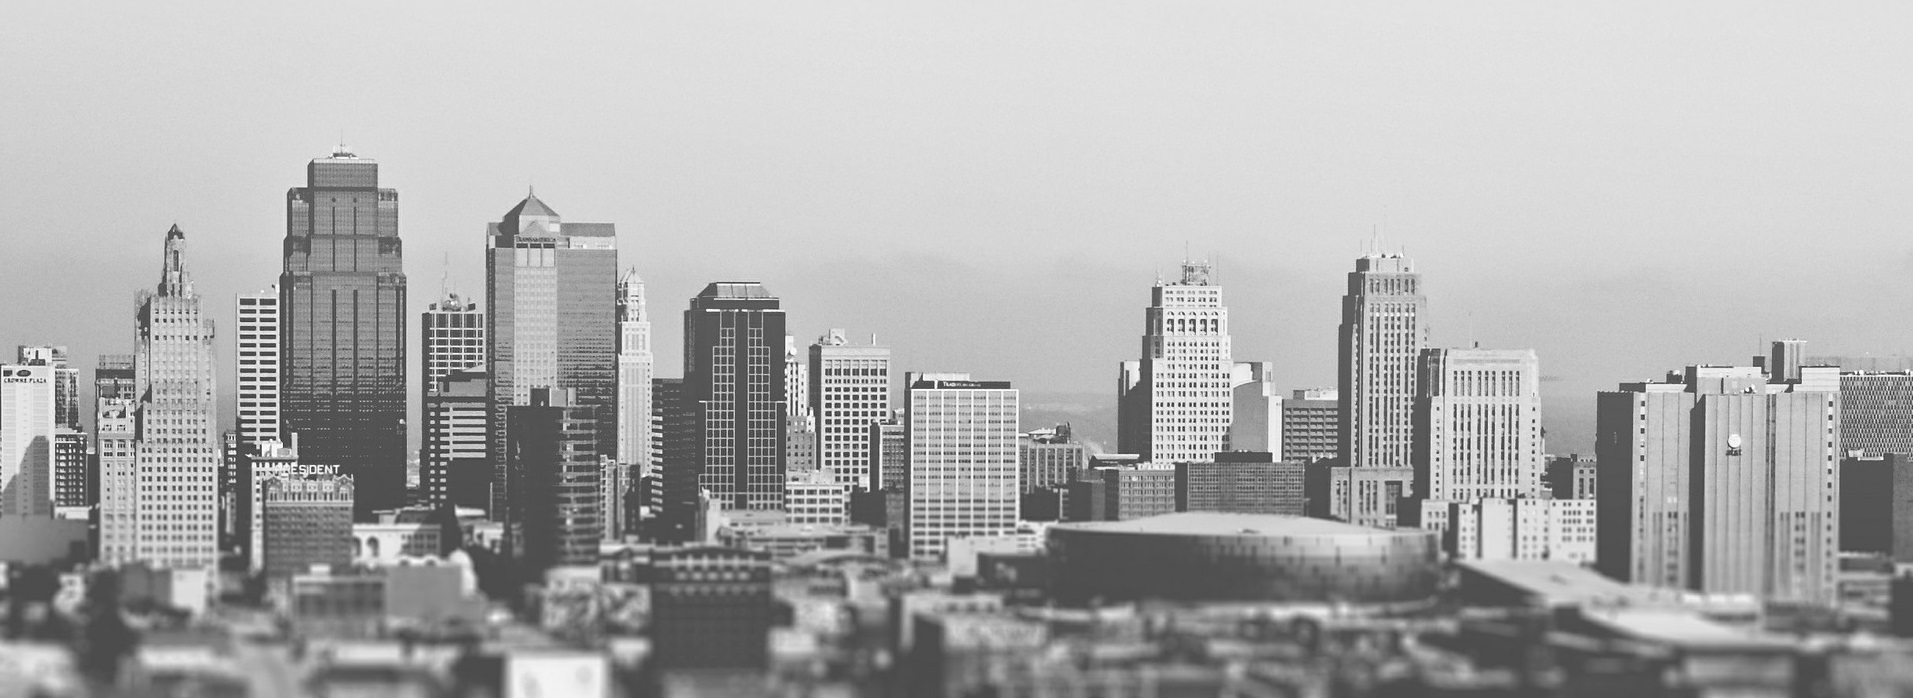
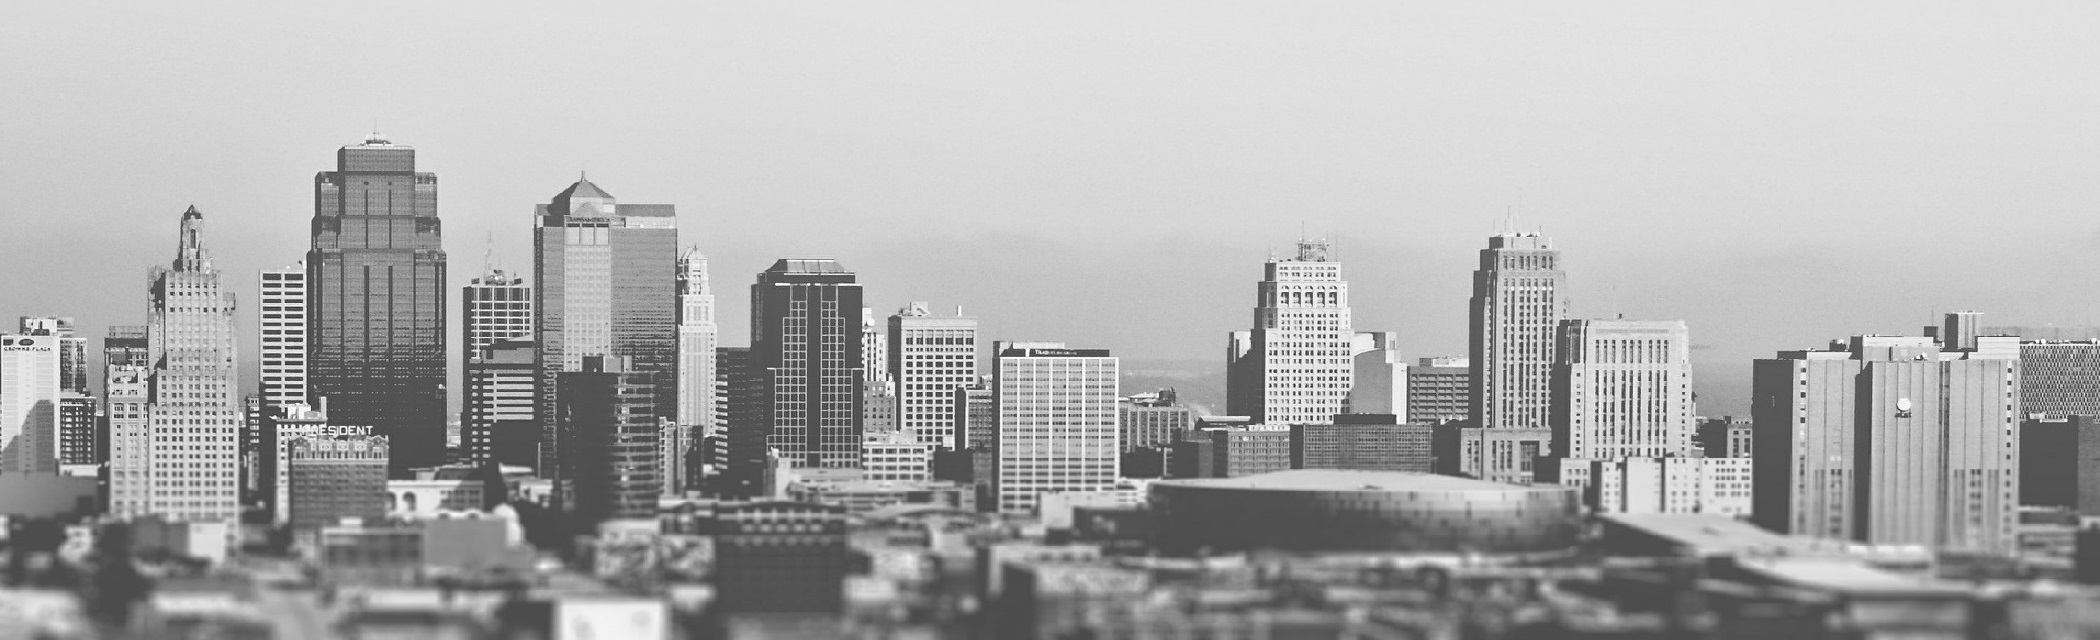
오지컴퍼니 메인페이지 이미지
오지컴퍼니 메인페이지 이미지 변환 작업 완료

diff --git a/Ozey Comefunny/index.html b/Ozey Comefunny/index.html
@@ -18,79 +18,97 @@
     <!--   HEADER   -->
   <header>
     <span class="logo"><a href="index.html"><img src="images/ozey-logo.jpg"></a></span>
-    <ul class="header-list">
-      <li><a href="index.html">HOME</a></li>
-      <li><a href="index.html">ABOUT US</a></li>
-      <div class="dropdown">
-        <li class="drop"><a href="index.html">OUR SERVICES</a></li>
-        <div class="dropdown-content">
-          <a href="#">Create Program</a>
-          <a href="#">LMS</a>
-          <a href="#">Do Whatever You Want</a>
-          <a href="#">Make Whatever You Need</a>
-        </div>
+  </div>
+  <ul class="header-list">
+    <li><a href="index.html">HOME</a></li>
+    <li><a href="index.html">ABOUT US</a></li>
+    <div class="dropdown">
+      <li class="drop"><a href="index.html">OUR SERVICES</a></li>
+      <div class="dropdown-content">
+        <a href="#">Create Program</a>
+        <a href="#">LMS</a>
+        <a href="#">Do Whatever You Want</a>
+        <a href="#">Make Whatever You Need</a>
       </div>
-      <li><a href="index.html">PORTFOLIO</a></li>
-      <li><a href="index.html">BLOG</a></li>
-      <li><a href="index.html">CONTACT US</a></li>
-    </ul>
-  </header><!--   /HEADER   -->
-    <!--   MAIN   -->
-    <div class="main">
+    </div>
+    <li><a href="index.html">PORTFOLIO</a></li>
+    <li><a href="index.html">BLOG</a></li>
+    <li><a href="index.html">CONTACT US</a></li>
+  </ul>
+</header><!--   /HEADER   -->
+<!--   MAIN   -->
+<div class="main">
+  <div class="wrapper">
+    <div id="container">
       <div class="main-img">
         <h1>Ozey Comefunny!!</h1>
         <h2><br>Who are we?<br>
           We don’t know yet.<br>
           We will figure it out as soon as possible.</h2>
+        <img src="images/city.jpg">
+        <img src="images/sydney.jpg">
+        <img src="images/street.jpg">
+        <img src="images/ship.jpg">
+          <h1>Ozey Comefunny!!</h1>
+          <h2><br>Who are we?<br>
+            We don’t know yet.<br>
+            We will figure it out as soon as possible.</h2>
+        </img>      
+        </img>
+        </img>
+        </img>
+      <button id="prev">&lang;</button>
+      <button id="next">&rang;</button>
       </div>
-      <section class="company">
-        <div class="about">
-          <h2>ABOUT US</h2>
-            <p><br>We are looking for one shot opportunity.</p>
-            <p>We need money, that is why we do this shit.</p>
-            <p>We don’t know what we are doing yet.</p>
-            <p>But we will find out and make some apps such as 배달의 민족 or 당근마켓.</p>
-            <input type="button" value="Read More" class="read">
-        </div>
-        <div class="about-img"><img src="images/about.JPG" alt="our crews"></div>
-      </section>
-      <section class="service">
-        <div class="our">
-          <h2>OUR SERVICES</h2>
-          <h3>We don’t know our possibility yet.<br>
-              So let me tell you when we are ready. Pleas wait. Be patient. Good boy.</h3>
-        </div>
-        <div class="service-list">
-          <div class="grid">
-            <img src="images/internet.png" class="service-img">
-            <p><a href="">Create Program</a></p>
-            <p>We crate or build some program for your work better.
-              We don’t know how long it will take. 
-              you know the life doesn't go as planned.</p>
-          </div>
-          <div class="grid">
-            <img src="images/user.png" class="service-img">
-            <p><a href="">LMS</a></p>
-            <p>LMS is learning Management system.
-              We wrote this but we can’t make it yet.</p>
-          </div>
-          <div class="grid">
-            <img src="images/cellphone.png" class="service-img">
-            <p><a href="">Do whatever you want</a></p>
-            <p>We will do whatever you want even if it is a illegal.
-              We don’t give a shit.</p>
-          </div>
-          <div class="grid">
-            <img src="images/lock.png" class="service-img">
-            <p><a href="">Make whatever you need</a></p>
-            <p>Just tell me what you need. We will make you anything 
-              such as hacking system. We know it is illegal, 
-              but we are telling you again, we don’t give a shit.</p>
-          </div>
-        </div>
-      </section>
     </div>
+    <section class="company">
+      <div class="about">
+        <h2>ABOUT US</h2>
+          <p><br>We are looking for one shot opportunity.</p>
+          <p>We need money, that is why we do this shit.</p>
+          <p>We don’t know what we are doing yet.</p>
+          <p>But we will find out and make some apps such as 배달의 민족 or 당근마켓.</p>
+          <input type="button" value="Read More" class="read">
+      </div>
+      <div class="about-img"><img src="images/about.JPG" alt="our crews"></div>
+    </section>
+    <section class="service">
+      <div class="our">
+        <h2>OUR SERVICES</h2>
+        <h3>We don’t know our possibility yet.<br>
+            So let me tell you when we are ready. Pleas wait. Be patient. Good boy.</h3>
+      </div>
+      <div class="service-list">
+        <div class="grid">
+          <img src="images/internet.png" class="service-img">
+          <p><a href="">Create Program</a></p>
+          <p>We crate or build some program for your work better.
+            We don’t know how long it will take. 
+            you know the life doesn't go as planned.</p>
+        </div>
+        <div class="grid">
+          <img src="images/user.png" class="service-img">
+          <p><a href="">LMS</a></p>
+          <p>LMS is learning Management system.
+            We wrote this but we can’t make it yet.</p>
+        </div>
+        <div class="grid">
+          <img src="images/cellphone.png" class="service-img">
+          <p><a href="">Do whatever you want</a></p>
+          <p>We will do whatever you want even if it is a illegal.
+            We don’t give a shit.</p>
+        </div>
+        <div class="grid">
+          <img src="images/lock.png" class="service-img">
+          <p><a href="">Make whatever you need</a></p>
+          <p>Just tell me what you need. We will make you anything 
+            such as hacking system. We know it is illegal, 
+            but we are telling you again, we don’t give a shit.</p>
+        </div>
+      </div>
+    </section>
   </div>
+</div>
   <hr>
   <footer>
     <h2>We do everything.</h2>
@@ -106,6 +124,6 @@
     <img src="images/ozey-logo.jpg">
     <p>Copyright 2020 Ozey Comefunny Corp. All Rights Reserved</p>
   </footer>
-  <script src="js/js.js"></script>
+  <script src="js/main.js"></script>
 </body>
 </html>

diff --git a/Ozey Comefunny/js/main.js b/Ozey Comefunny/js/main.js
@@ -1,0 +1,51 @@
+/* When the user clicks on the button,
+toggle between hiding and showing the dropdown content */
+function myFunction() {
+  document.getElementById("myDropdown").classList.toggle("show");
+}
+
+// Close the dropdown menu if the user clicks outside of it
+window.mouseover = function(event) {
+  if (!event.target.matches('.dropbtn')) {
+    var dropdowns = document.getElementsByClassName("dropdown-content");
+    var i;
+    for (i = 0; i < dropdowns.length; i++) {
+      var openDropdown = dropdowns[i];
+      if (openDropdown.classList.contains('show')) {
+        openDropdown.classList.remove('show');
+      }
+    }
+  }
+}
+
+
+var slides = document.querySelectorAll(".main-img > img");
+var prev = document.querySelector("#prev");
+var next = document.querySelector("#next");
+
+var current = 0;
+
+showSlide(current);
+
+function showSlide(n) {
+  for(var i = 0; i < slides.length; i++) {
+    slides[i].style.display = "none";
+  }
+  slides[n].style.display = "block";
+}
+
+function prevSlide() {
+  if(current > 0) current -= 1;
+  else current = slides.length -1;
+  showSlide(current);
+}
+
+function nextSlide() {
+  if(current < slides.length -1) current += 1;
+  else current = 0;
+  showSlide(current);
+}
+
+showSlide(current);
+prev.onclick = prevSlide;
+next.onclick = nextSlide;

diff --git a/Ozey Comefunny/css/style.css b/Ozey Comefunny/css/style.css
@@ -86,29 +86,71 @@ li {
 
 
 /* ------------- MAIN ---------------- */
+.wrapper {
+  margin: 2rem auto;
+  display: block;
+  text-align: center;
+  position: relative;
+}
 
 .main-img {
-  margin: 2rem auto;
+  margin: 0 auto;
   height: 40rem;
-  background-image: url(../images/city.jpg);
   background-repeat: no-repeat;
   background-position: center;
+  display: inline-flex;
 }
 
 .main-img h1 {
-  display: block;
   text-align: center;
   padding-top: 2rem;
+  position: absolute;
+  width: 100vw;
 }
 
 .main-img h2 {
-  display: block;
   text-align: center;
+  position: absolute;
+  width: 100vw;
+  padding-top: 5rem;
 }
+
+button {
+	position:absolute; 
+	height:100%; 
+	top:0; 
+	border:none; 
+	padding:20px; 
+	background-color:transparent;
+	color:#000;
+	font-weight:800;
+	font-size:24px; 
+	opacity:0.5;   
+}
+#prev {
+  left:0;
+  height: 40rem;
+}
+#next {
+  right:0;
+  height: 40rem;
+}
+button:hover {   
+	background-color:#222; 
+	color:#fff;  
+	opacity:0.6; 
+	cursor:pointer;  
+}
+button:focus { 
+	outline:0;  
+}
+
+
 
 /* --- Section About Us --- */
 .company {
   display: inline-flex;
+  position: relative;
 }
 .about {
   width: 47.5vw;
